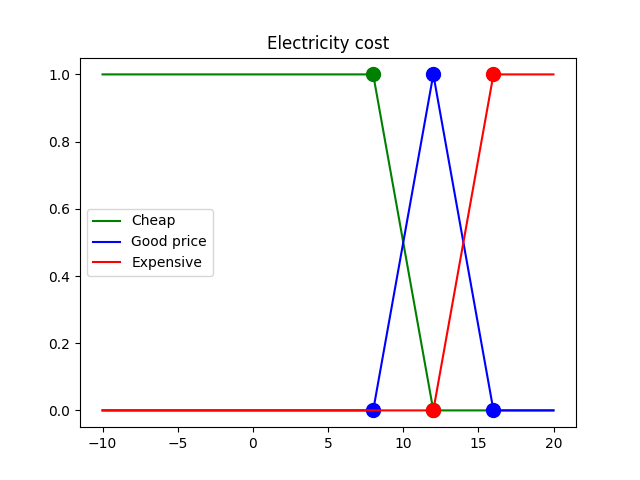
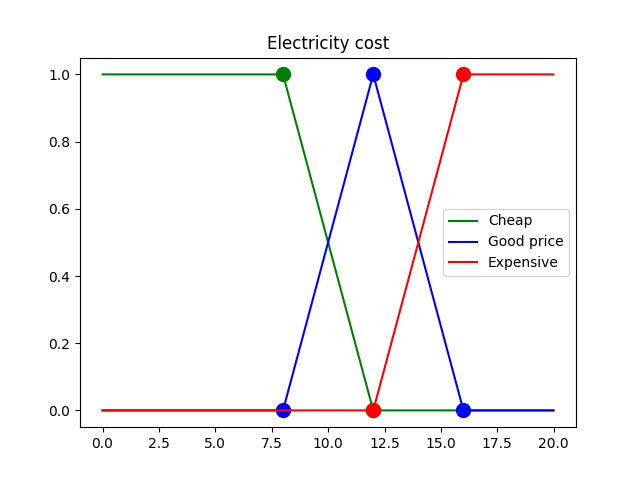
Fixed text

diff --git a/README.md b/README.md
@@ -12,9 +12,8 @@ $ pip -e .
 # Basic usage
 Assume that intended system for opening a valve dependent on price of electricity and the temperature in the environment.
 
-Assume that the fuzzy set for the temperature looks like this:
+Assume that the fuzzy set for the temperature and cost looks like this:
 ![Temperature](images/temperature.png)
-And assume that the fuzzy set for the electricity price looks like this:
 ![Electricity cost](images/electrisity_cost.png)
 This is implemented like this in this module:
 ``` python
